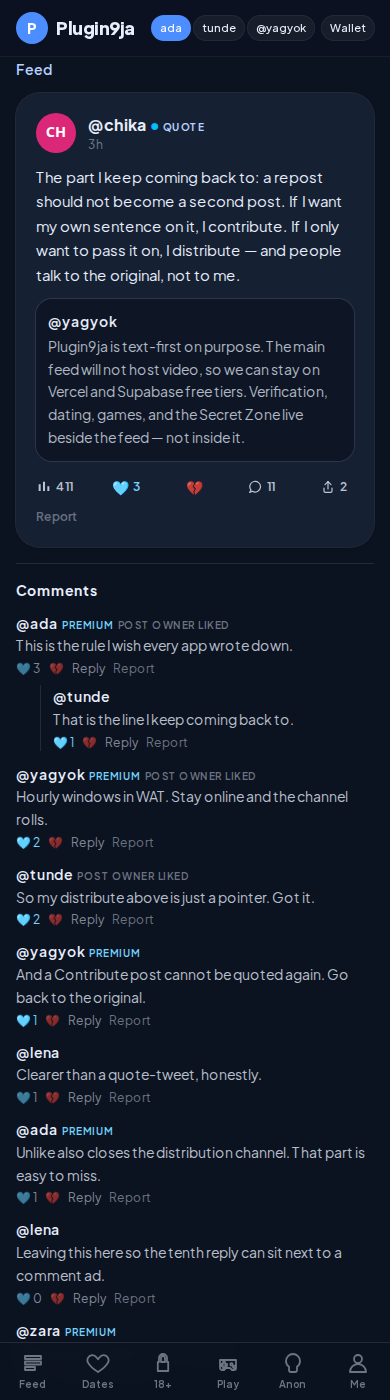
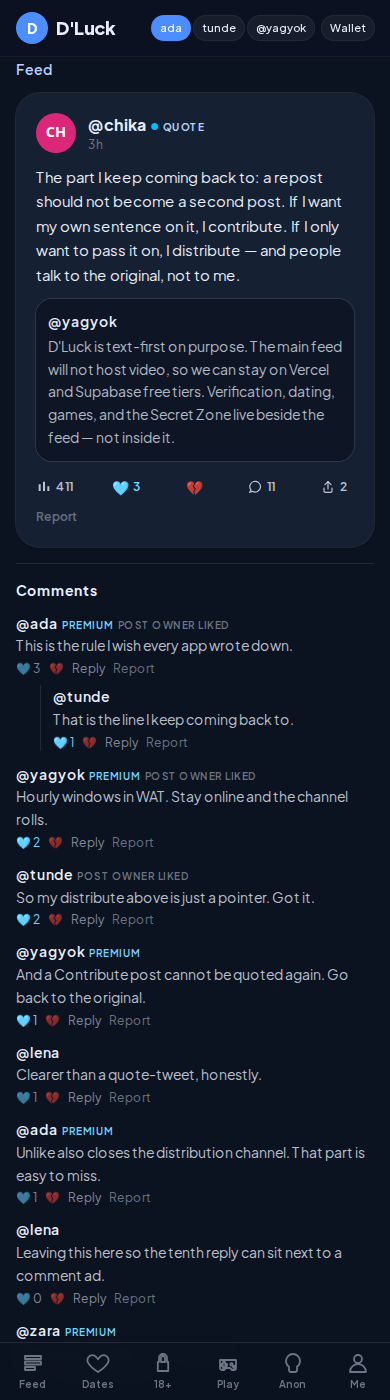
Rename the user-facing brand from Plugin9ja to D'Luck.
Display copy, the wordmark, titles, and the PWA name use D'Luck. The manifest id is /dluck. Repo, Supabase, and database identifiers stay as they are.

Changed region(s): [[0.1231, 0.2457, 0.8615, 0.3379], [0.1538, 0.0, 0.3385, 0.0307]]

diff --git a/src/lib/demo/data.ts b/src/lib/demo/data.ts
@@ -98,7 +98,7 @@ export const PEOPLE: DemoPerson[] = [
     username: "yagyok",
     displayName: "Yagyok",
     email: "yagyok@gmail.com",
-    bio: "Founder of Plugin9ja. Building a text-first home for West Africa and everyone who finds us.",
+    bio: "Founder of D'Luck. Building a text-first home for West Africa and everyone who finds us.",
     region: "nigeria",
     nigerian: true,
     blueTick: true,
@@ -339,7 +339,7 @@ export const POSTS: DemoPost[] = [
     id: "p_welcome",
     author: "yagyok",
     kind: "original",
-    body: "Plugin9ja is text-first on purpose. The main feed will not host video, so we can stay on Vercel and Supabase free tiers. Verification, dating, games, and the Secret Zone live beside the feed — not inside it.",
+    body: "D'Luck is text-first on purpose. The main feed will not host video, so we can stay on Vercel and Supabase free tiers. Verification, dating, games, and the Secret Zone live beside the feed — not inside it.",
     likes: ["ada", "chika", "tunde", "lena"],
     comments: [
       comment("c1", "ada", "Text-only is the right constraint. The writing has to carry the post."),
@@ -409,7 +409,7 @@ export const POSTS: DemoPost[] = [
     id: "p8",
     author: "yagyok",
     kind: "original",
-    body: "Whot and Ludo are the only games. Free tables are open. Paid tables run ₦100 to ₦1,000 in ₦100 steps: 1% to Plugin9ja, then 30% of the net to the host and 70% to the winner.",
+    body: "Whot and Ludo are the only games. Free tables are open. Paid tables run ₦100 to ₦1,000 in ₦100 steps: 1% to D'Luck, then 30% of the net to the host and 70% to the winner.",
     likes: ["tunde", "kwame", "ada"],
     comments: [],
     shares: 3,
@@ -456,7 +456,7 @@ export const ADS: HouseAd[] = [
     id: "ad_cowry",
     username: "cowrybank",
     name: "Cowry Bank",
-    copy: "Move money without the speech. Cowry is a demo advertiser — your transfer to Plugin9ja still goes to the founder account.",
+    copy: "Move money without the speech. Cowry is a demo advertiser — your transfer to D'Luck still goes to the founder account.",
     cta: "Open Cowry",
     color: "#0f766e",
     impressions: 8600,
@@ -538,7 +538,7 @@ export const SECRET_CREATORS = [
 
 export const BANK = {
   bank: "GTBank",
-  accountName: "Plugin9ja",
+  accountName: "D'Luck",
   accountNumber: "0123456789",
   narration: "Your @username and the plan (monthly, fast-track, or yearly)",
 };

diff --git a/src/components/social/WalletPanel.tsx b/src/components/social/WalletPanel.tsx
@@ -23,7 +23,7 @@ export function WalletPanel({ person }: { person: DemoPerson }) {
   return (
     <div className="space-y-3" data-testid="wallet">
       <section className="card">
-        <p className="text-xs font-semibold uppercase tracking-wider text-ink/45">Plugin9ja earnings</p>
+        <p className="text-xs font-semibold uppercase tracking-wider text-ink/45">{"D'Luck"} earnings</p>
         <p className="mt-1 text-3xl font-black">{naira(person.earningsNgn)}</p>
         <p className="mt-2 text-sm text-ink/65">{eligibility.reason}</p>
         {eligibility.monthsRemaining !== undefined && <p className="mt-1 text-sm font-semibold">{eligibility.monthsRemaining} premium month(s) left</p>}
@@ -35,7 +35,7 @@ export function WalletPanel({ person }: { person: DemoPerson }) {
         <div className="mt-3 space-y-2 text-sm">
           <Pool label="Creators 50%" value={pools.creator} />
           <Pool label="Viewers 20%" value={pools.viewer} />
-          <Pool label="Plugin9ja 30%" value={pools.faddahy} />
+          <Pool label="D'Luck 30%" value={pools.faddahy} />
           {pools.withheld > 0 && <Pool label="Withheld" value={pools.withheld} />}
         </div>
         <p className="mt-3 text-sm text-ink/60">

diff --git a/src/components/games/StakeBar.tsx b/src/components/games/StakeBar.tsx
@@ -34,7 +34,7 @@ export function StakeBar({ players = 2 }: { players?: number }) {
           <p className="text-sm text-ink/60">{stakeLadder().map((n) => (n === stake ? naira(n) : null)).filter(Boolean)} per player · {players} players</p>
           <dl className="mt-3 grid grid-cols-2 gap-2 text-sm">
             <div className="rounded-2xl bg-navy/80 px-3 py-2"><dt className="text-ink/45">Gross pool</dt><dd className="font-bold">{naira(payout.gross)}</dd></div>
-            <div className="rounded-2xl bg-navy/80 px-3 py-2"><dt className="text-ink/45">Plugin9ja 1%</dt><dd className="font-bold">{naira(payout.faddahyFee)}</dd></div>
+            <div className="rounded-2xl bg-navy/80 px-3 py-2"><dt className="text-ink/45">{"D'Luck"} 1%</dt><dd className="font-bold">{naira(payout.faddahyFee)}</dd></div>
             <div className="rounded-2xl bg-navy/80 px-3 py-2"><dt className="text-ink/45">Host 30% of net</dt><dd className="font-bold">{naira(payout.organizer)}</dd></div>
             <div className="rounded-2xl bg-navy/80 px-3 py-2"><dt className="text-ink/45">Winner 70% of net</dt><dd className="font-bold">{naira(payout.winner)}</dd></div>
           </dl>

diff --git a/src/components/social/AdminConsole.tsx b/src/components/social/AdminConsole.tsx
@@ -128,7 +128,7 @@ function AdPerformance() {
   return (
     <section className="mt-10" data-testid="ad-performance">
       <h2 className="text-lg font-bold">Ad performance</h2>
-      <p className="mt-1 text-sm text-ink/55">Mimic advertiser accounts. Spend splits 50% creator / 20% viewer / 30% Plugin9ja after eligibility.</p>
+      <p className="mt-1 text-sm text-ink/55">Mimic advertiser accounts. Spend splits 50% creator / 20% viewer / 30% {"D'Luck"} after eligibility.</p>
       <div className="mt-3 space-y-3">
         {rows.map(({ ad, split, ctr }) => (
           <article key={ad.id} className="card">
@@ -146,7 +146,7 @@ function AdPerformance() {
               <Stat label="CTR" value={`${ctr.toFixed(2)}%`} />
             </dl>
             <p className="mt-3 text-xs text-ink/50">
-              Spend {naira(ad.spendNgn)} · creators {naira(split.creator)} · viewers {naira(split.viewer)} · Plugin9ja {naira(split.faddahy)}
+              Spend {naira(ad.spendNgn)} · creators {naira(split.creator)} · viewers {naira(split.viewer)} · {"D'Luck"} {naira(split.faddahy)}
             </p>
           </article>
         ))}

diff --git a/src/components/social/DatingDeck.tsx b/src/components/social/DatingDeck.tsx
@@ -42,7 +42,7 @@ export function DatingDeck({
           <p className="text-sm font-semibold text-brand-200">Blue tick only</p>
           <h2 className="mt-2 text-xl font-bold">Verify before you can match</h2>
           <p className="mt-2 text-sm leading-relaxed text-ink/70">
-            Dating is limited to blue-tick members. The ₦100 fee comes from Plugin9ja earnings and sits in a 48-hour hold until both people confirm.
+            Dating is limited to blue-tick members. The ₦100 fee comes from {"D'Luck"} earnings and sits in a 48-hour hold until both people confirm.
           </p>
           <Link href="/verify" className="btn-primary mt-5 w-full">Get the blue tick</Link>
         </div>
@@ -87,7 +87,7 @@ export function DatingDeck({
     setEarnings(result.earningsAfter);
     setHeld(result.heldAfter);
     setHold({ withUser: active.withUser, hold: result.hold });
-    setNote(`Match confirmed. ${naira(result.deductedNgn)} was deducted from Plugin9ja earnings.`);
+    setNote(`Match confirmed. ${naira(result.deductedNgn)} was deducted from D'Luck earnings.`);
   }
 
   function unmatch() {

diff --git a/src/lib/engine/allocation.ts b/src/lib/engine/allocation.ts
@@ -1,6 +1,6 @@
 import type { PoolEligibility, PoolSplit, ViewerDayLog, ViewerSurface } from "./types";
 
-/** Creator 50%, Viewer 20%, Plugin9ja 30%. */
+/** Creator 50%, Viewer 20%, D'Luck 30%. */
 export const POOL_SHARES = {
   creator: 0.5,
   viewer: 0.2,
@@ -35,8 +35,8 @@ export interface ActivityCounts {
 /**
  * Eligibility is applied before any naira/dollar is assigned.
  * Only verified blue-tick creators and viewers earn from ads.
- * Ineligible shares are withheld (they are not quietly added to Plugin9ja).
- * Plugin9ja's 30% is the platform share and is always allocated.
+ * Ineligible shares are withheld (they are not quietly added to D'Luck).
+ * D'Luck's 30% is the platform share and is always allocated.
  */
 export function allocateRevenue(gross: number, eligibility: PoolEligibility): PoolSplit {
   const amount = roundMoney(Math.max(0, gross));

diff --git a/src/components/secret/SecretRoom.tsx b/src/components/secret/SecretRoom.tsx
@@ -50,7 +50,7 @@ export function SecretRoom({ focus, blueTick = false, username = "you" }: { focu
       <p className="text-xs font-semibold uppercase tracking-wider text-ink/45">Ad-free · 18+</p>
       <h1 className="mt-1 text-2xl font-extrabold">{focus ? `@${focus}` : "Secret Zone"}</h1>
       <p className="mt-1 text-sm text-ink/55">
-        {naira(split.gross)} / month per creator. Month-end settlement is {naira(split.creator)} to the creator and {naira(split.faddahy)} to Plugin9ja.
+        {naira(split.gross)} / month per creator. Month-end settlement is {naira(split.creator)} to the creator and {naira(split.faddahy)} to {"D'Luck"}.
       </p>
       <div className="mt-4 grid grid-cols-2 gap-2">
         <button type="button" className={`chip ${tab === "creator" ? "chip-on" : ""}`} onClick={() => setTab("creator")}>Creator</button>

diff --git a/src/lib/engine/dating.ts b/src/lib/engine/dating.ts
@@ -21,7 +21,7 @@ export interface PlaceHoldResult {
 }
 
 /**
- * Each blue-tick member places their own ₦100 hold from Plugin9ja earnings.
+ * Each blue-tick member places their own ₦100 hold from D'Luck earnings.
  * The hold does not deduct. It expires after 48 hours or on unmatch.
  */
 export function placeDateHold(input: {
@@ -42,7 +42,7 @@ export function placeDateHold(input: {
   if (spendable < DATE_FEE_NGN) {
     return {
       ok: false,
-      reason: "You need ₦100 of spendable Plugin9ja earnings for the 48-hour hold.",
+      reason: "You need ₦100 of spendable D'Luck earnings for the 48-hour hold.",
       earningsAfter: input.earningsNgn,
       heldAfter: input.alreadyHeldNgn,
     };

diff --git a/src/lib/engine/payouts.ts b/src/lib/engine/payouts.ts
@@ -35,7 +35,7 @@ export function stakeLadder(): number[] {
 }
 
 /**
- * Paid play: 1% Plugin9ja fee on the gross pool.
+ * Paid play: 1% D'Luck fee on the gross pool.
  * Of the net, 30% goes to the single tournament host and 70% to the winner
  * (or winning team as one share).
  */
@@ -61,7 +61,7 @@ export interface SecretSplit {
   faddahy: number;
 }
 
-/** ₦1,000 per creator per month, settled 70% creator / 30% Plugin9ja at month-end. */
+/** ₦1,000 per creator per month, settled 70% creator / 30% D'Luck at month-end. */
 export function secretZoneSplit(months = 1): SecretSplit {
   const m = Math.max(1, Math.floor(months));
   const gross = SECRET_SUBSCRIPTION_NGN * m;

diff --git a/src/app/(app)/games/page.tsx b/src/app/(app)/games/page.tsx
@@ -24,7 +24,7 @@ export default function GamesPage() {
       </div>
       <section className="card mt-4 text-sm">
         <h2 className="font-bold">Paid table example · {naira(500)} × 4</h2>
-        <p className="mt-2 text-ink/70">Plugin9ja keeps 1% ({naira(sample.faddahyFee)}). The host takes 30% of the net ({naira(sample.organizer)}). The winner takes 70% ({naira(sample.winner)}).</p>
+        <p className="mt-2 text-ink/70">{"D'Luck"} keeps 1% ({naira(sample.faddahyFee)}). The host takes 30% of the net ({naira(sample.organizer)}). The winner takes 70% ({naira(sample.winner)}).</p>
       </section>
     </main>
   );

diff --git a/src/components/Logo.tsx b/src/components/Logo.tsx
@@ -4,7 +4,7 @@ export function Logo({ small = false }: { small?: boolean }) {
   return (
     <span className="inline-flex items-center gap-2">
       <span className={`grid place-items-center rounded-2xl bg-brand-500 text-white ${small ? "h-8 w-8" : "h-10 w-10"}`}>
-        <span className={`font-black ${small ? "text-sm" : "text-base"}`}>P</span>
+        <span className={`font-black ${small ? "text-sm" : "text-base"}`}>D</span>
       </span>
       <span className={`font-extrabold tracking-tight ${small ? "text-lg" : "text-xl"}`}>{APP_NAME}</span>
     </span>

diff --git a/src/lib/config.ts b/src/lib/config.ts
@@ -1,4 +1,4 @@
-export const APP_NAME = "Plugin9ja";
+export const APP_NAME = "D'Luck";
 export const APP_TAGLINE = "Text-first social for any email. Free to host, verified when it counts.";
 export const SCHOOL_NAME = "Federal University of Technology, Minna";
 export const FOUNDER_USERNAME = "yagyok";
